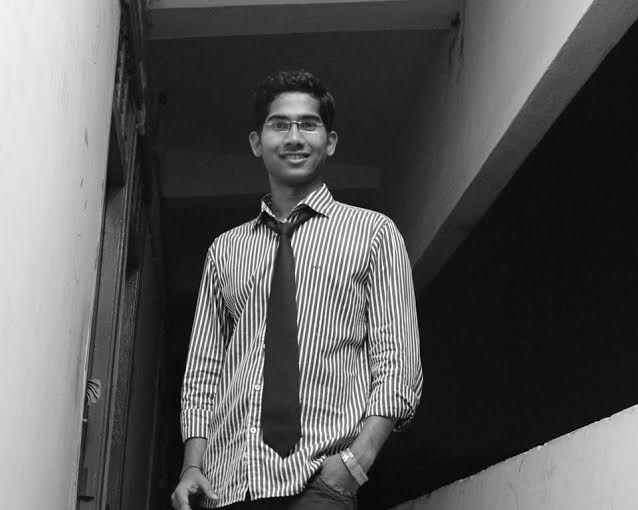
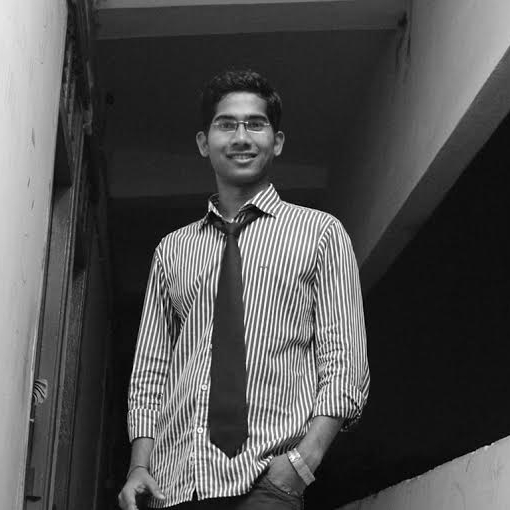
Fixed blog link in navbar, fixed team photo stretching issue, replaced/added images to carousel, added gallery.php with basic layout

diff --git a/pages/gallery.php b/pages/gallery.php
@@ -4,9 +4,9 @@
         <meta charset="UTF-8" />
         <meta http-equiv="X-UA-Compatible" content="IE=edge,chrome=1"> 
         <meta name="viewport" content="width=device-width, initial-scale=1.0"> 
-        <title>Sponsors | AUV Team, IIT Kharagpur</title>
+        <title>Gallery | AUV Team, IIT Kharagpur</title>
         <meta name="description" content="Overview | AUV Team, IIT Kharagpur" />
-        <meta name="keywords" content="Sponsors, Sponsorship, AUV, Autonomous, Underwater, Vehicle, Team, IIT, IIT Kharagpur, Kharagpur"/>
+        <meta name="keywords" content="Gallery, Images, AUV, Autonomous, Underwater, Vehicle, Team, IIT, IIT Kharagpur, Kharagpur"/>
         <link href="../font-awesome/css/font-awesome.min.css" rel="stylesheet">
         <link rel="shortcut icon" href="../resources/favicon.ico" type="image/x-icon"> 
         
@@ -26,33 +26,14 @@
             changeActive(1);
         </script>
         <div class = "container" style="margin-top:70px;">
-            <h1 style="text-align:center;">SPONSORS</h1>
+            <h1 style="text-align:center;">GALLERY</h1>
             <div class="row">
                 <div class="col-md-1"></div>
                 <div class="col-md-8">
                     <div id ="sponsors" class="well well-lg">
-                        <p>
-    						To achieve success in our goal team rely of generous support of our sponsors. Your kind donation will help us in purchasing costly sensor, hardware and fabrication of AUV. Sponsorship money will also support us in participating in International ROBOSUB Competition to be held in San Diego, USA(Travel support for team members).We would like to thank our sponsors for supporting the technological development in underwater Robotics . We will ensure to provide special benefits to our sponsor and would like to continue long term association.
-                        </p>
-                        <h3>Why Sponsor Us?</h3>
-                        <ul>
-                            <li>Promoting robotics research among undergraduate students.</li>
-                            <li>We are one of the 4 Indian Teams which participates in international ROBOSUB, held at San Diego each year.</li>
-                            <li>The team was winner of SAVe 2011(student AUV competition) organized by NIOT, ministry of earth sciences.</li>
-                            <li>AUV shall be a big boost to your Corporate Social Responsibility, for supporting and nurturing a national level team which represents our country internationally.</li>
-                        </ul>
-                        <h3>Sponsorship Benefits</h3>
-                        <ul>
-                            <li>Company visibility at the AUVSI/ONR ROBOSUB competition</li>
-                            <li>Special Distinction in media coverage</li>
-                            <li>Company logo on competition vehicle and posters</li>
-                            <li>Company information and logo on the website</li>
-                            <li>Company name on the team uniform</li>
-                            <li>An Asscociation with IIT Kharagpur</li>
-                            <li>Recognition in time to time workshops and exhibitions by team at notable events such as the Alumni meet.</li>
-                        </ul>
-                        <br>
-                        <b><p style="text-align:center">If you would like to sponsor us with equipment, sensors or cash sponsorship, do drop us an email at ikat.kgp@gmail.com</p></b>
+                        <h1 style="text-align:center"><small>
+                            A team of trained monkeys have been assigned to search for the missing images.<br>Try again soon!
+                        </small></h1>
                     </div>
                     </div>
 

diff --git a/pages/team.php b/pages/team.php
@@ -4,9 +4,9 @@
         <meta charset="UTF-8" />
         <meta http-equiv="X-UA-Compatible" content="IE=edge,chrome=1"> 
         <meta name="viewport" content="width=device-width, initial-scale=1.0"> 
-        <title>Contacts | AUV Team, IIT Kharagpur</title>
+        <title>Team | AUV Team, IIT Kharagpur</title>
         <meta name="description" content="Contacts | AUV Team, IIT Kharagpur" />
-        <meta name="keywords" content="Contacts, AUV, Autonomous, Underwater, Vehicle, Team, IIT, IIT Kharagpur, Kharagpur"/>
+        <meta name="keywords" content="Team, Members, AUV, Autonomous, Underwater, Vehicle, Team, IIT, IIT Kharagpur, Kharagpur"/>
         <link href="../font-awesome/css/font-awesome.min.css" rel="stylesheet">
         <link rel="shortcut icon" href="../resources/favicon.ico" type="image/x-icon"> 
         
@@ -46,7 +46,11 @@
                             </div>
                             <div class="col-md-6">
                                 <blockquote>
-                                    <p>Dr. C.S. Kumar</p> <small><cite title="Source Title">Assistant Professor, Dept. of Mechanical Engineering</cite></small>
+                                    <p>
+                                        <a href="http://iitkgp.ac.in/fac-profiles/showprofile.php?empcode=aWmdU">
+                                        Dr. C.S. Kumar
+                                        </a>
+                                    </p> <small><cite title="Source Title">Assistant Professor, Dept. of Mechanical Engineering</cite></small>
                                 </blockquote>
                                 <p style="font-size:12px;"> <i class="fa fa-envelope"> kumar @ mech.iitkgp.ernet.in</i> 
                                 </br><i class="fa fa-phone"> +91 - 3222 - 282934</i></p> 
@@ -142,7 +146,7 @@
                             </div>
                             <div class="col-md-4" style="padding-right:0px;">
                                 <blockquote>
-                                    <p>Karnam Sai Raji Teja</p> <small><cite title="Source Title">Electrical Engg</cite></small>
+                                    <p>Karanam Sai Ravi Teja</p> <small><cite title="Source Title">Electrical Engg</cite></small>
                                 </blockquote>
                                 <!--p style="font-size:12px;"> <i class="fa fa-envelope"> vinayyadav3016@gmail.com</i> 
                                 </br><i class="fa fa-phone"> +91 - 3222 - 282934</i> </p-->

diff --git a/index.php b/index.php
@@ -77,7 +77,7 @@
                       </ol>
                       <div class="carousel-inner">
                         <div class="item active" align="center">
-                          <img alt="" src="resources/bg_suburb.jpg">
+                          <img alt="" src="resources/carousel/auv4.jpg">
                           <div class="carousel-caption">
                             <h4>
                               First Thumbnail label
@@ -88,7 +88,7 @@
                           </div>
                         </div>
                         <div class="item" align="center">
-                          <img alt="" src="resources/carousel_auv.jpg">
+                          <img alt="" src="resources/carousel/auv.jpg">
                           <div class="carousel-caption">
                             <h4>
                               Second Thumbnail label
@@ -99,10 +99,21 @@
                           </div>
                         </div>
                         <div class="item" align="center">
-                          <img alt="" src="resources/carousel_auv.jpg">
+                          <img alt="" src="resources/carousel/auv2.jpg">
                           <div class="carousel-caption">
                             <h4>
                               Third Thumbnail label
+                            </h4>
+                            <p>
+                              Cras justo odio, dapibus ac facilisis in, egestas eget quam. Donec id elit non mi porta gravida at eget metus. Nullam id dolor id nibh ultricies vehicula ut id elit.
+                            </p>
+                          </div>
+                        </div>
+                        <div class="item" align="center">
+                          <img alt="" src="resources/carousel/auv3.jpg">
+                          <div class="carousel-caption">
+                            <h4>
+                              Second Thumbnail label
                             </h4>
                             <p>
                               Cras justo odio, dapibus ac facilisis in, egestas eget quam. Donec id elit non mi porta gravida at eget metus. Nullam id dolor id nibh ultricies vehicula ut id elit.

diff --git a/pages/competitions.php b/pages/competitions.php
@@ -34,7 +34,7 @@
                         <li><a href="#sauce">Sauc-E</a></li>
                     </ul>
                 </div>
-                <div class="col-md-7">
+                <div class="col-md-8">
                     <div class="well well-lg">
                         <div id ="robosub">
                             <h1><a href="http://robosub.org">ROBOSUB</a></h1>
@@ -56,7 +56,7 @@
                         </div>
                     </div>
                 </div>
-                <div class="col-md-3">
+                <div class="col-md-2">
                 <div class="well">
                         <h1>ABOUT US</h1>
                         The IIT Kharagpur Autonomous Underwater Vehicle Team (iKAT) is a student group working in the field of autonomous underwater robotics. We design and build Autonomous Underwater Vehicles for research and competitive purposes.

diff --git a/pages/navbar.php b/pages/navbar.php
@@ -27,7 +27,7 @@
                 <li><a href="sponsors.php">Sponsors</a></li>
                 <li><a href="gallery.php">Gallery</a></li>
                 <li><a href="contact.php">Contact Us</a></li>
-                <li><a href="http://auv-iitkgp.ac.in/blog">Blog</a></li>
+                <li><a href="http://auv-iitkgp.in/blog">Blog</a></li>
 
                 </li>
             </ul>

diff --git a/navbar.php b/navbar.php
@@ -29,7 +29,7 @@
 
                 <li><a href="pages/gallery.php">Gallery</a></li>
                 <li><a href="pages/contact.php">Contact Us</a></li>
-                <li><a href="http://www.auv-iitkgp.ac.in/blog">Blog</a></li>
+                <li><a href="http://www.auv-iitkgp.in/blog">Blog</a></li>
 
                 </li>
             </ul>
